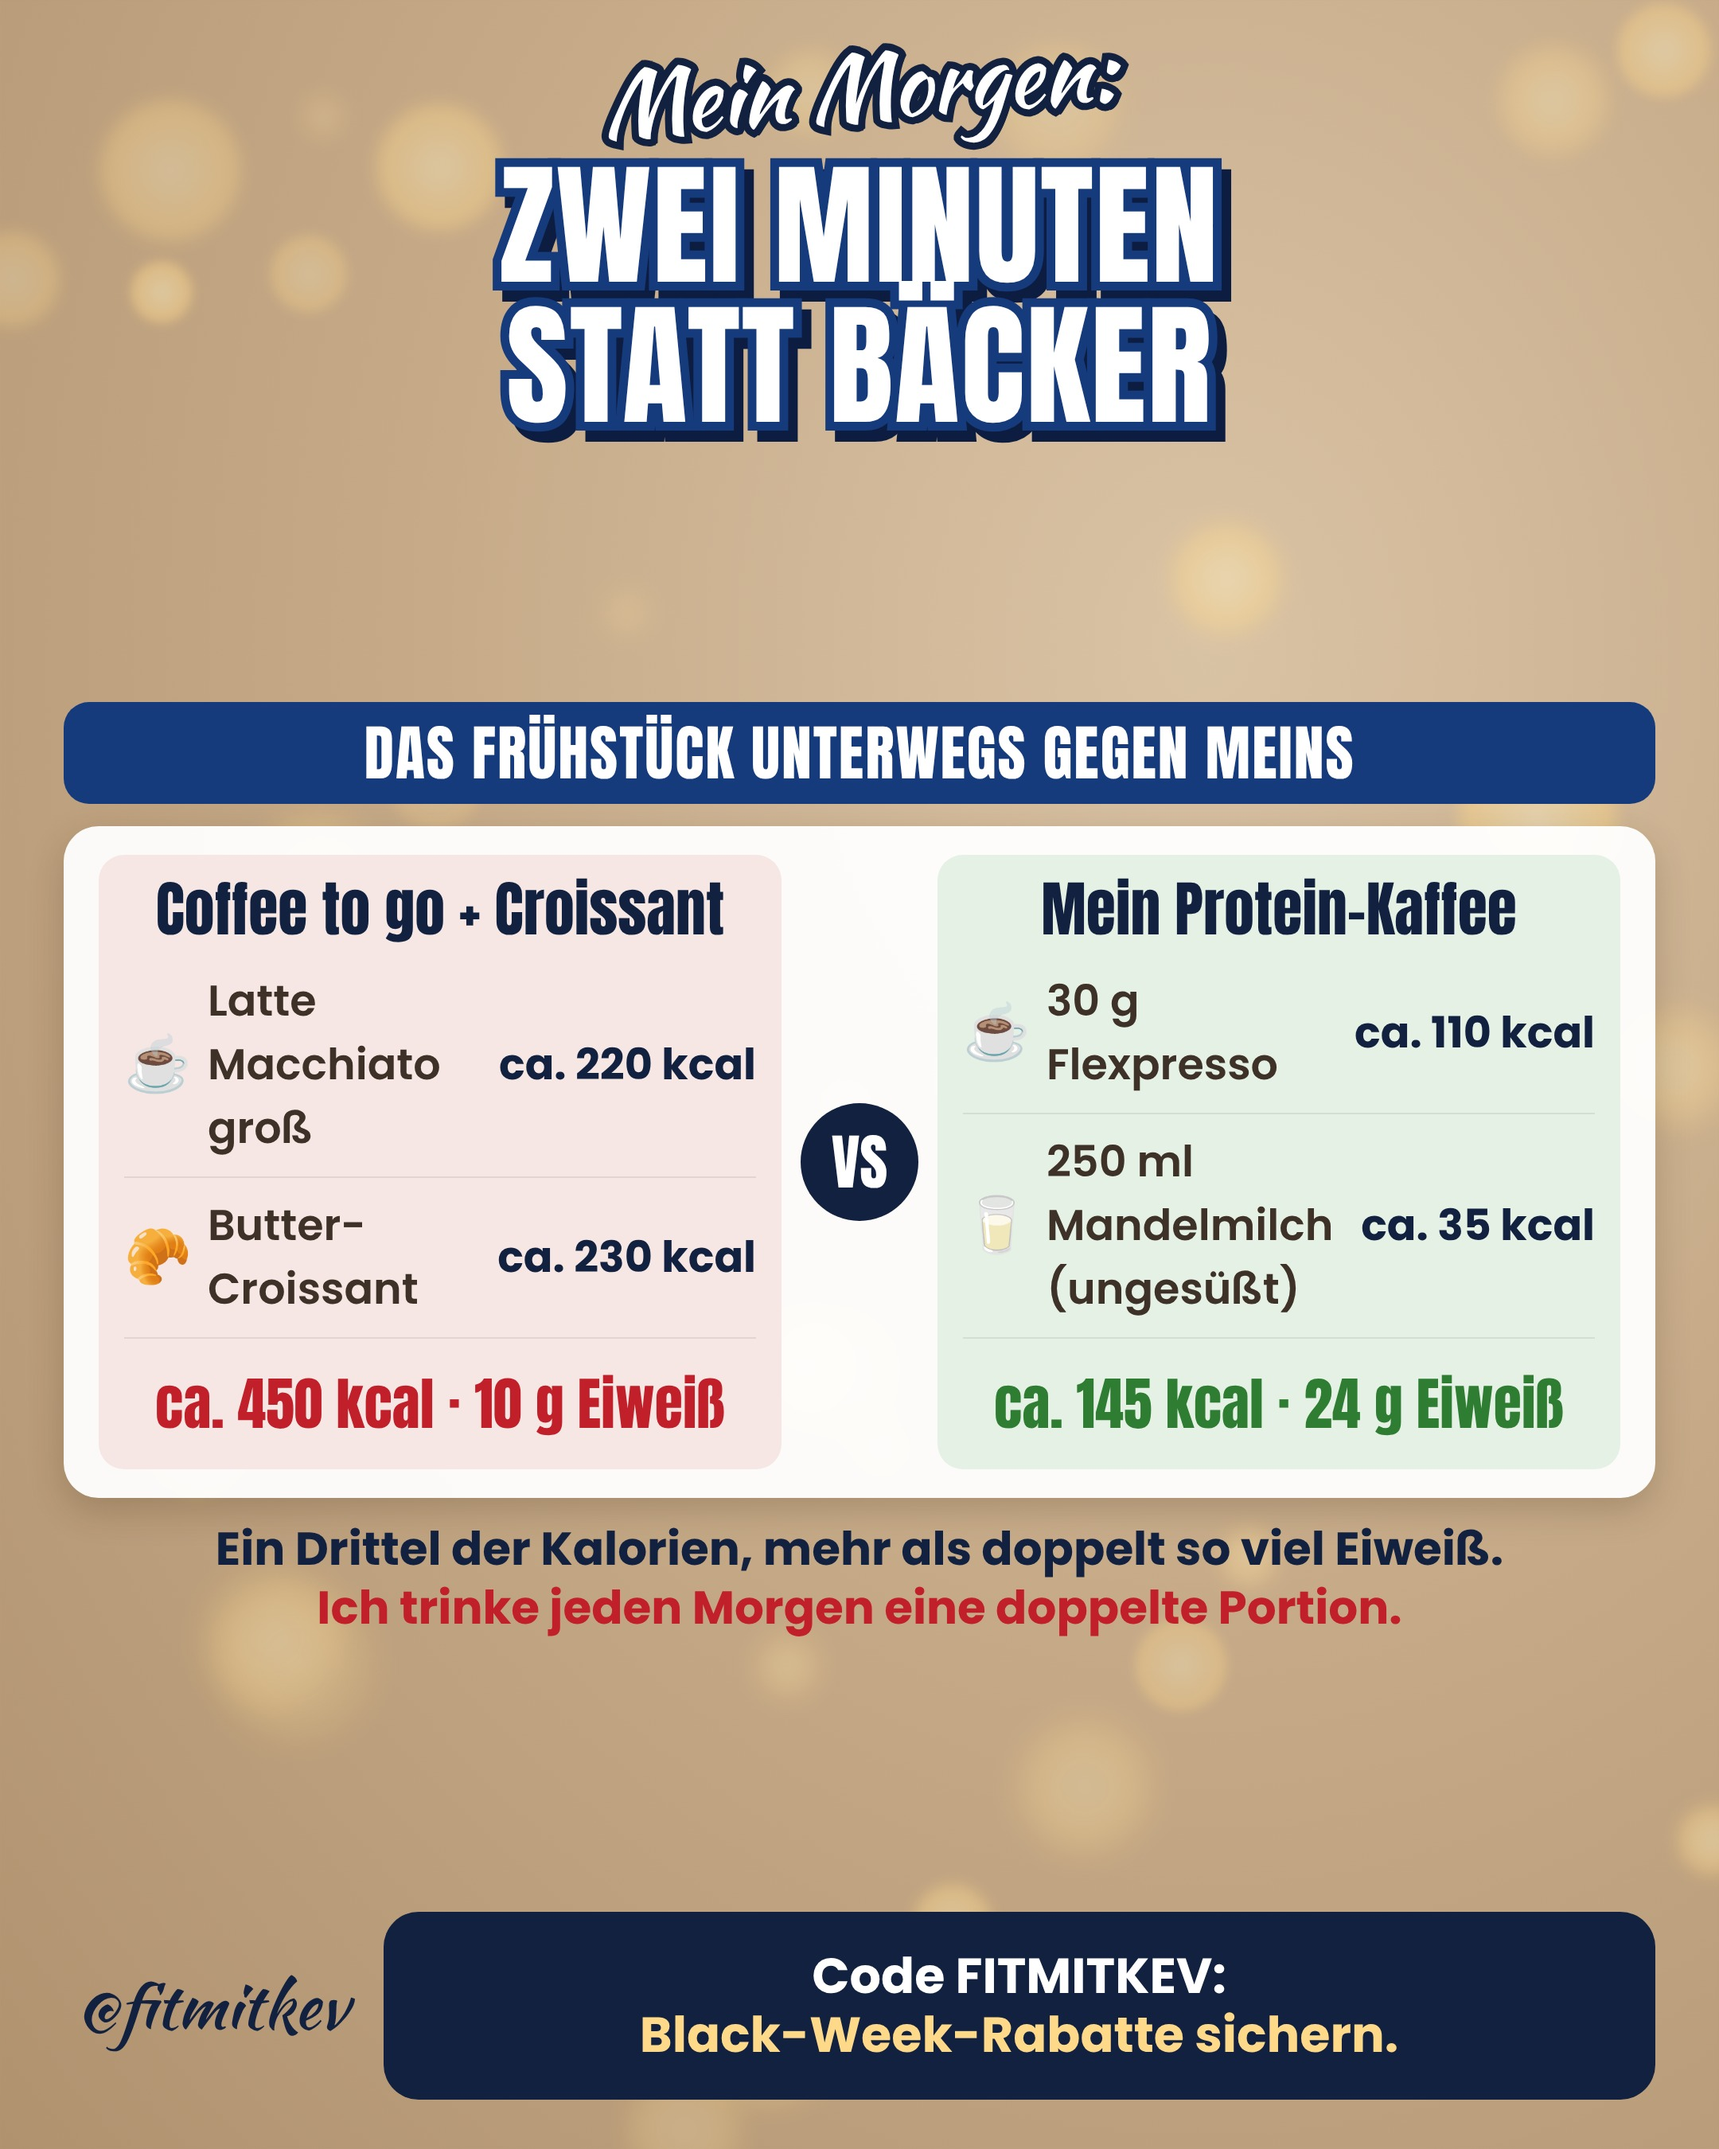
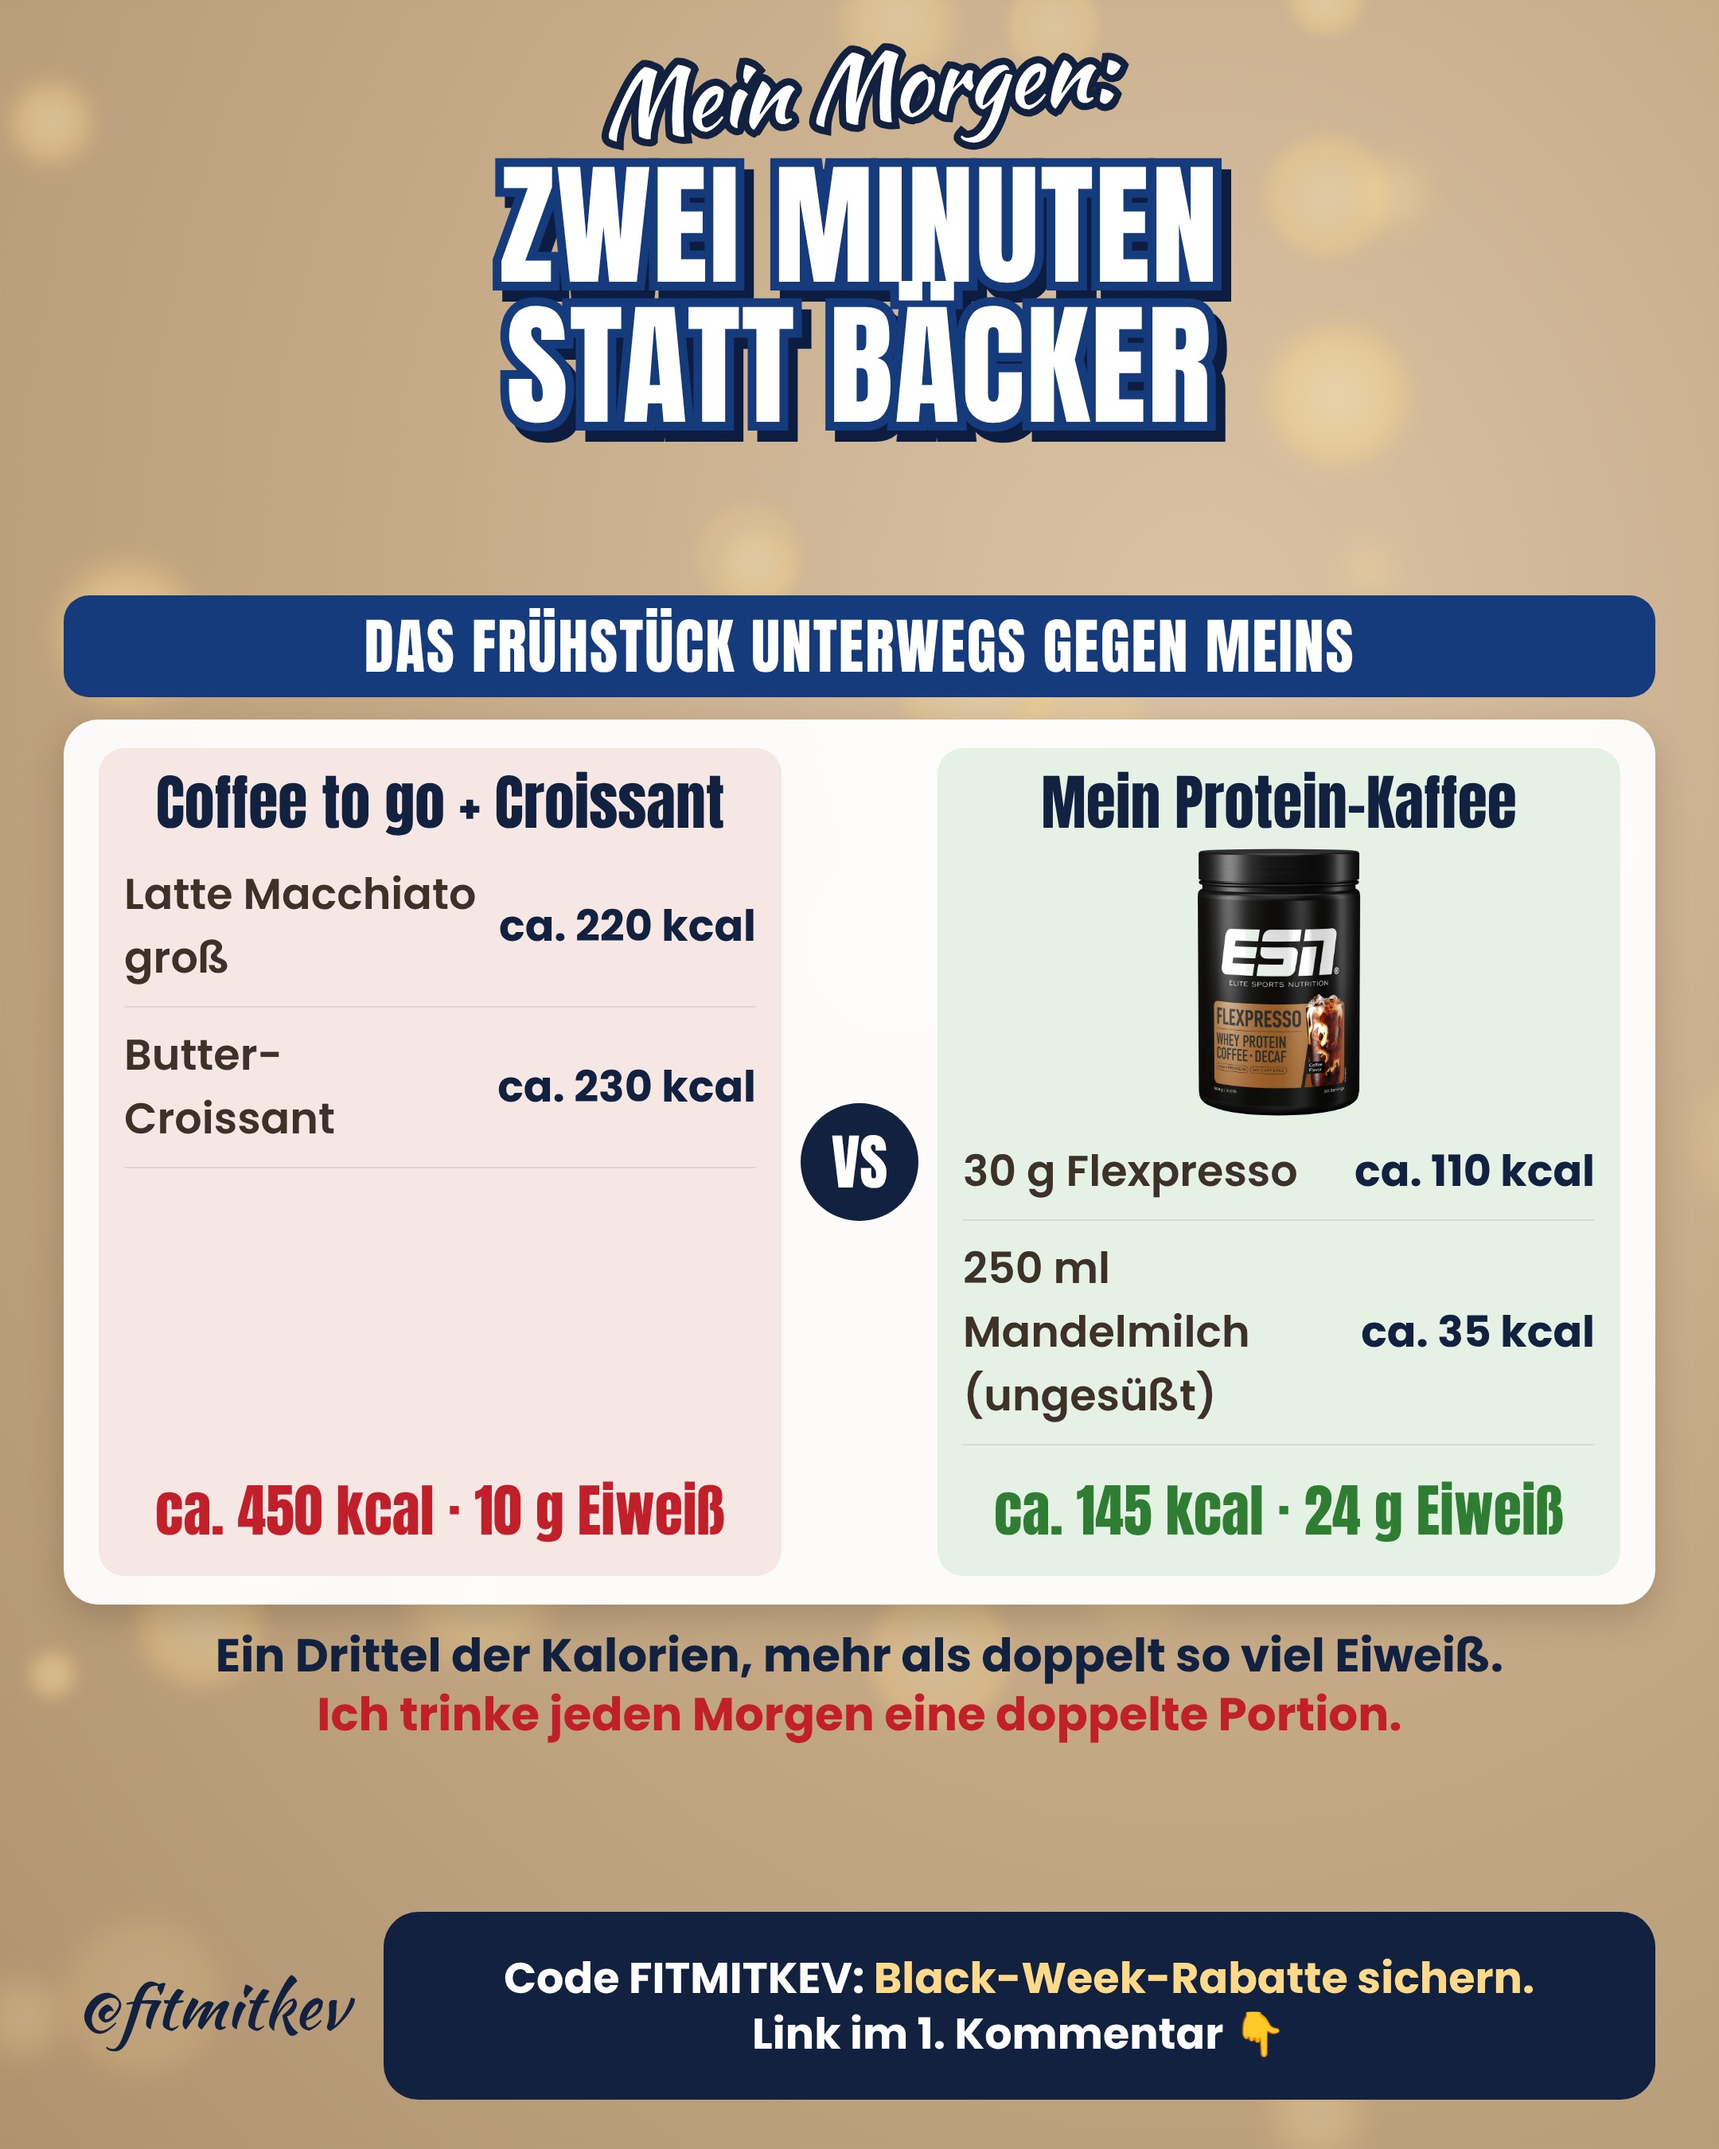
ESN-Infobeiträge P2, P3, P7, P8, P10: Produktbilder und Text-Kacheln statt Emojis
Claude-Session: https://claude.ai/code/session_01KPVmpRePrZAkggdzf7KsfK

diff --git a/tools/esn_produkt/esn_board.py b/tools/esn_produkt/esn_board.py
@@ -74,15 +74,16 @@ SPEC={
    css='.ri{width:104px;height:104px;overflow:hidden}.ri img{max-width:104px;max-height:104px;border-radius:14px}.rw{padding:9px 0}.msg{font-size:27px;line-height:1.3}'),
  'P2':dict(out='ESN-P2-Morgen', hook='Mein Morgen:', title=['ZWEI MINUTEN','STATT BÄCKER'], size=84,
    secs=[dict(lab='DAS FRÜHSTÜCK UNTERWEGS GEGEN MEINS', col=BLUE, type='vs', d=dict(
-      l=dict(title='Coffee to go + Croissant', rows=[('☕','Latte Macchiato groß','ca. 220 kcal'),('🥐','Butter-Croissant','ca. 230 kcal')], sum='ca. 450 kcal · 10 g Eiweiß'),
-      r=dict(title='Mein Protein-Kaffee', rows=[('☕','30 g Flexpresso','ca. 110 kcal'),('🥛','250 ml Mandelmilch (ungesüßt)','ca. 35 kcal')], sum='ca. 145 kcal · 24 g Eiweiß'))),
+      l=dict(title='Coffee to go + Croissant', rows=[('','Latte Macchiato groß','ca. 220 kcal'),('','Butter-Croissant','ca. 230 kcal')], sum='ca. 450 kcal · 10 g Eiweiß'),
+      r=dict(title='Mein Protein-Kaffee', img='shop/flexpresso.png', rows=[('','30 g Flexpresso','ca. 110 kcal'),('','250 ml Mandelmilch (ungesüßt)','ca. 35 kcal')], sum='ca. 145 kcal · 24 g Eiweiß'))),
    ],
    mid='Ein Drittel der Kalorien, mehr als doppelt so viel Eiweiß.<br><span>Ich trinke jeden Morgen eine doppelte Portion.</span>',
-   msg='Code FITMITKEV:<br><span>Black-Week-Rabatte sichern.</span>'),
+   msg='Code FITMITKEV: <span>Black-Week-Rabatte sichern.</span><br>Link im 1. Kommentar 👇',
+   css='.msg{font-size:27px;line-height:1.3}.vimg{height:170px}'),
  'P3':dict(out='ESN-P3-Riegel', hook='Süßes ohne Zuckerfalle:', title=['SCHOKORIEGEL','ODER PROTEINRIEGEL?'], size=78,
    secs=[dict(lab='SO SIEHT DER VERGLEICH AUS', col=RED, type='vs', d=dict(
-      l=dict(title='Schokoriegel (50 g)', rows=[('🔥','Kalorien','ca. 240 kcal'),('🍬','Zucker','ca. 25 g'),('💪','Eiweiß','ca. 3 g')], sum='8 Stück Würfelzucker'),
-      r=dict(title='Designer Bar (45 g)', img='designer-bar-mint.png', rows=[('🔥','Kalorien','unter 200 kcal'),('🍬','Zucker','max. 2 g'),('💪','Eiweiß','ca. 14 g')], sum='weich, mit Füllung'))),
+      l=dict(title='Schokoriegel (50 g)', rows=[('','Kalorien','ca. 240 kcal'),('','Zucker','ca. 25 g'),('','Eiweiß','ca. 3 g')], sum='8 Stück Würfelzucker'),
+      r=dict(title='Designer Bar (45 g)', img='designer-bar-mint.png', rows=[('','Kalorien','unter 200 kcal'),('','Zucker','max. 2 g'),('','Eiweiß','ca. 14 g')], sum='weich, mit Füllung'))),
    ],
    mid='Werte je nach Sorte leicht unterschiedlich.<br><span>Mein Snack, wenn nachmittags die Lust auf Süßes kommt.</span>',
    msg='Süß darf sein.<br><span>Ohne die Zuckerbombe.</span>'),
@@ -104,20 +105,21 @@ SPEC={
    css='.pc img[src*="kev/"]{border-radius:18px;height:270px;margin:15px 0}'),
  'P7':dict(out='ESN-P7-Abendsnacks', hook='Abends Hunger?', title=['4 EIWEISS-SNACKS','UNTER 200 KCAL'], size=80,
    secs=[dict(lab='MEINE SNACKS FÜR DEN ABEND', col=BLUE, type='rows', d=[
-      ('🥤','Shake','30 g Proteinpulver + 300 ml Wasser','115<br><small>kcal</small>'),
-      ('🍮','Schoko-Creme','200 g Skyr + 15 g Proteinpulver Schoko','185<br><small>kcal</small>'),
-      ('🍨','Schoko-Eis','1 Portion Eis aus Hüttenkäse','195<br><small>kcal</small>'),
-      ('🍫','Proteinriegel','1 Riegel (45 g)','190<br><small>kcal</small>')])],
+      ('shaker-black.png','Shake','30 g Proteinpulver + 300 ml Wasser','115<br><small>kcal</small>'),
+      ('extra-creamy-30g-milk-chocolate.png','Schoko-Creme','200 g Skyr + 15 g Proteinpulver Schoko','185<br><small>kcal</small>'),
+      ('extra-creamy-black-edition-ultra-dark.png','Schoko-Eis','1 Portion Eis aus Hüttenkäse','195<br><small>kcal</small>'),
+      ('shop/designerbar.png','Proteinriegel','1 Riegel (45 g)','190<br><small>kcal</small>')])],
    mid='Alle mit 14 bis 33 g Eiweiß.<br><span>Kalorien im Blick, Genuss inklusive.</span>',
    msg='Snacken ja.<br><span>Aber mit Plan.</span>'),
  'P8':dict(out='ESN-P8-Klumpen', hook='Tipp aus meiner Küche:', title=['PROTEINPULVER','OHNE KLUMPEN'], size=86,
    secs=[dict(lab='SO RÜHRE ICH ES EIN', col=GREEN, type='rows', d=[
-      ('1⃣','Erst das Pulver, dann wenig Flüssigkeit','zu einer glatten Paste rühren, dann den Rest dazu','✓'),
-      ('2⃣','In Skyr und Quark: Schneebesen','30 Sekunden kräftig, dann wird es cremig wie Mousse','✓'),
-      ('3⃣','Pudding und Grießbrei: erst abkühlen lassen','2 Minuten vom Herd, dann einrühren','✓'),
-      ('4⃣','Shake: Flüssigkeit zuerst in den Shaker','dann Pulver drauf, 20 Sekunden schütteln','✓')])],
+      ('1','Erst das Pulver, dann wenig Flüssigkeit','zu einer glatten Paste rühren, dann den Rest dazu','✓'),
+      ('2','In Skyr und Quark: Schneebesen','30 Sekunden kräftig, dann wird es cremig wie Mousse','✓'),
+      ('3','Pudding und Grießbrei: erst abkühlen lassen','2 Minuten vom Herd, dann einrühren','✓'),
+      ('4','Shake: Flüssigkeit zuerst in den Shaker','dann Pulver drauf, 20 Sekunden schütteln','✓')])],
    mid='Kochend heiß flockt Eiweiß aus. Deshalb kommt es bei mir immer zum Schluss rein.',
-   msg='Cremig statt klumpig:<br><span>Reihenfolge macht\'s.</span>'),
+   msg='Cremig statt klumpig:<br><span>Reihenfolge macht\'s.</span>',
+   css='.ri{background:#12213f;color:#fff;font-family:A;font-size:66px}'),
  'P9':dict(out='ESN-P9-Shakes', hook='Shake, aber richtig:', title=['3 SHAKES UNTER','250 KCAL'], size=86,
    secs=[dict(lab='EINFACH IN DEN SHAKER', col=BLUE, type='rows', d=[
       ('extra-creamy-30g-vanilla-speculoos.png','Spekulatius-Shake','30 g Vanilla Speculoos + 250 ml Milch (1,5 %) + Prise Zimt','230<br><small>kcal</small>'),
@@ -127,12 +129,13 @@ SPEC={
    msg='Kein Shake muss<br><span>nach Pappe schmecken.</span>'),
  'P10':dict(out='ESN-P10-Fragen', hook='Eure Fragen:', title=['ESN BLACK WEEK','KURZ ERKLÄRT'], size=88,
    secs=[dict(lab='DAS WERDE ICH AM HÄUFIGSTEN GEFRAGT', col=BLUE, type='rows', d=[
-      ('❓','Wie lange läuft die Black Week?','bis Mittwoch, 2.12., um 17:30 Uhr','2.12.'),
-      ('❓','Wie viel Rabatt gibt es?','bis zu -70 %, Riegel und Extra Creamy -30 %, Whey und Isoclear -25 %','-70 %'),
-      ('❓','Welche Sorte für deine Rezepte?','Vanilla Milk passt fast überall, für Desserts die neuen Sorten','🥄'),
-      ('❓','Und der Versand?','ab der 2. Bestellung ab 30 € kostenlos mit SHIPAGAIN','📦')])],
+      ('?','Wie lange läuft die Black Week?','bis Mittwoch, 2.12., um 17:30 Uhr','2.12.'),
+      ('?','Wie viel Rabatt gibt es?','bis zu -70 %, Riegel und Extra Creamy -30 %, Whey und Isoclear -25 %','-70 %'),
+      ('?','Welche Sorte für deine Rezepte?','Vanilla Milk passt fast überall, für Desserts die neuen Sorten',f'<img src="{B}/shop/extracreamy-vanilla.png" style="height:104px">'),
+      ('?','Und der Versand?','ab der 2. Bestellung ab 30 € kostenlos mit SHIPAGAIN','30 €')])],
    mid='Den Link mit meinem Code findest du im ersten Kommentar.',
-   msg='Noch eine Frage?<br><span>Schreib sie mir in die Kommentare.</span>'),
+   msg='Noch eine Frage?<br><span>Schreib sie mir in die Kommentare.</span>',
+   css='.ri{background:#12213f;color:#fff;font-family:A;font-size:70px}'),
  'P11':dict(out='ESN-P11-Letzter-Tag', hook='Letzte Chance:', title=['HEUTE BIS','17:30 UHR'], size=96,
    secs=[dict(lab='DAS HOLE ICH MIR NOCH · NUR SOLANGE DER VORRAT REICHT', col=RED, type='prod', d=[
       ('extra-creamy-black-edition-ultra-dark.png','Ultra Dark Chocolate','neu, für Schokopudding<br><b>19,53 €</b>'),
@@ -166,7 +169,7 @@ body{{margin:0;width:1080px;height:1350px;overflow:hidden;position:relative;font
 .vh{{font-family:A;font-size:38px;color:{NAVY};text-align:center;margin-bottom:6px;line-height:1.1}}
 .vimg{{height:200px;object-fit:contain;margin:0 auto 4px}}
 .vr2{{display:flex;align-items:center;gap:10px;font-size:27px;font-weight:600;color:#3d3128;padding:10px 0;border-bottom:1.5px solid rgba(0,0,0,.08)}}
-.vr2 .e{{font-size:34px}} .vr2 .n{{flex:1}} .vr2 .w{{font-weight:700;color:{NAVY};white-space:nowrap}}
+.vr2 .e{{font-size:34px}} .vr2 .e:empty{{display:none}} .vr2 .n{{flex:1}} .vr2 .w{{font-weight:700;color:{NAVY};white-space:nowrap}}
 .vs{{margin-top:auto;padding-top:14px;font-family:A;font-size:36px;text-align:center}}
 .vc.l .vs{{color:{RED}}} .vc.r .vs{{color:{GREEN}}}
 .vsmid{{align-self:center;font-family:A;font-size:38px;color:#fff;background:{NAVY};border-radius:50%;width:74px;height:74px;display:flex;align-items:center;justify-content:center;flex:none}}

diff --git a/tools/esn_seite/README.md b/tools/esn_seite/README.md
@@ -14,3 +14,8 @@ Per Dialog entschieden: blaues Feld = „Code FITMITKEV: Black-Week-Rabatte sich
 
 ## Runde 2 (19.11., 17:45, per Chat)
 Kev: Samstag und Sonntag „auch im Info-Design und nur ein Bild pro Beitrag, das wird besser ausgestrahlt“. K1 (Sa 21.11., 11:00) und K2 (So 22.11., 6:10) sind jetzt Boards aus `esn_board.py` (`ESN-K1-Ankuendigung.jpg`, `ESN-K2-Start.jpg`); die Foto-Galerie für Samstag entfällt. K1 zeigt bewusst keine Neuheiten (die starten erst So 12 Uhr), deshalb der Ausschnitt `kev/sq-Kev-ExtraCreamy-VanillaMilk.jpg`. K3–K5 sind weiter Einzelfotos.
+
+## Runde 3 (19.11., 18:00–18:40, per Chat)
+- K1: „Meine Top 5“, Rabatte statt Emojis. K1, K2, P0, P1, P2: im blauen Feld zusätzlich „Link im 1. Kommentar 👇“.
+- Sonntag: Einkaufszettel (P1) auf 11:00 Uhr mit „Gleich geht's los“; neuer Beitrag P0 „Jetzt geht's los“ mit Rabattübersicht um 12:00 Uhr. K1, K2, P1, P0 sind eingeplant (IDs: `tools/gesn/esn_ankuendigung_metricool_ids.json`).
+- Kev: „so wenig Emojis wie möglich, lieber Produkte“. P0, P2, P3, P7, P8, P10 nutzen jetzt Produktbilder (`esn/bilder/shop/`, `esn/bilder/`) oder Text-Kacheln (%, ?, 1–4) statt Emojis. Zeilen-Emojis in der Vergleichskarte entfallen (leeres Emoji wird ausgeblendet).
